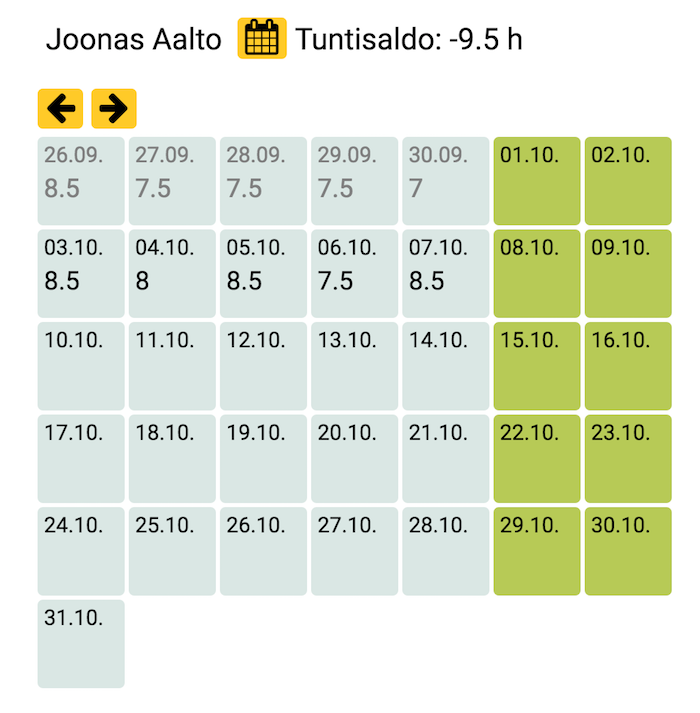
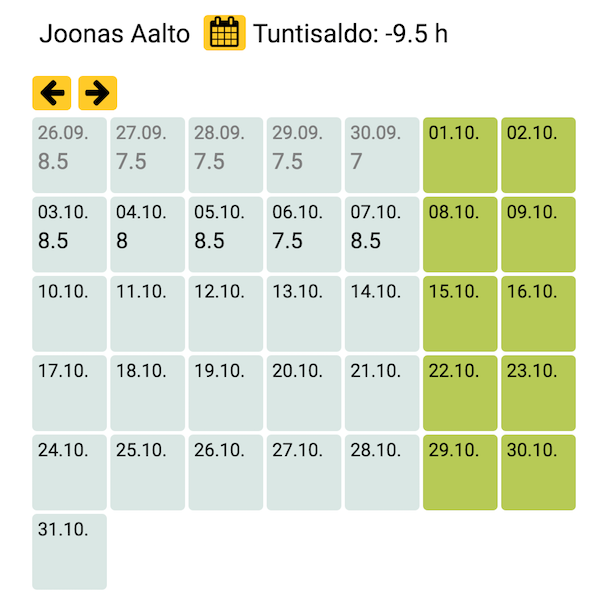
Fix and resize screenshot.

diff --git a/README.md b/README.md
@@ -2,7 +2,7 @@
 
 In Finland the standard work week is 37.5 hours. In the long term you are supposed to keep your logged hours within a reasonable margin of that standard. This app sums up the total amount of hours you have logged to [Harvest](https://www.getharvest.com/) and compares it to the standard hours, taking any national holidays into account (currently holidays for 2016 are included).
 
-(screenshot.png)
+![Screenshot](screenshot.png)
 
 ### Requirements for local development
 
